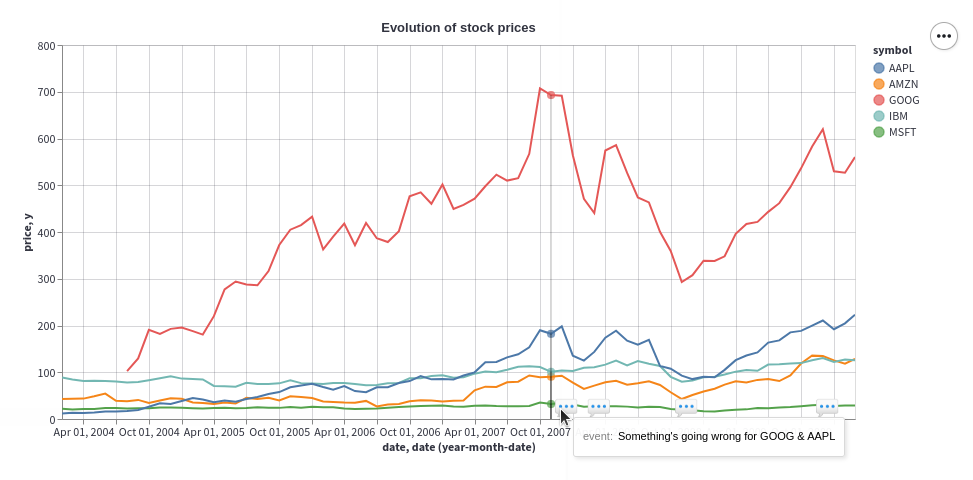
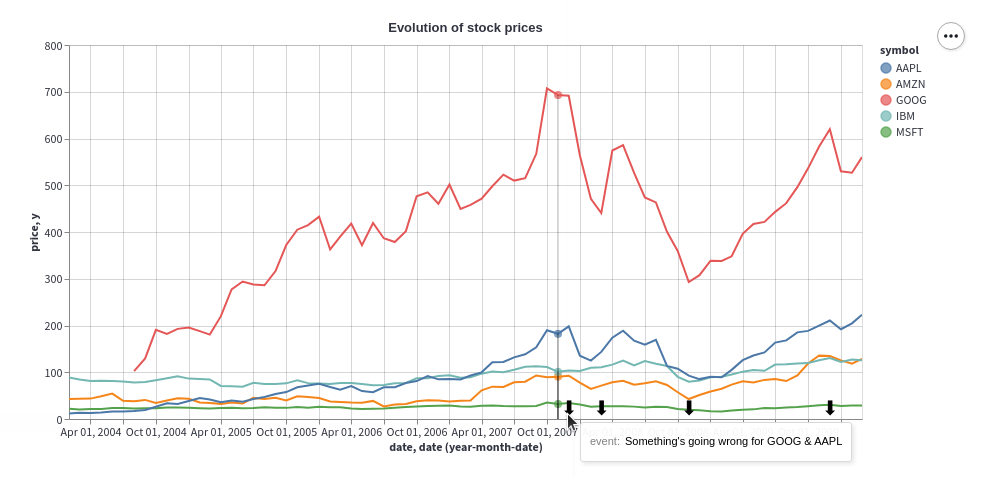
Incorporate Arnaud's feedback

diff --git a/content/library/api/charts/altair_chart.md b/content/library/api/charts/altair_chart.md
@@ -24,8 +24,14 @@ import pandas as pd
 import streamlit as st
 from vega_datasets import data
 
-source = data.stocks()
-source = source[source.date.gt("2004-01-01")]
+# We use @st.experimental_memo to keep the dataset in cache
+@st.experimental_memo
+def get_data():
+    source = data.stocks()
+    source = source[source.date.gt("2004-01-01")]
+    return source
+
+source = get_data()
 ```
 
 Next, we define a function `get_chart()` to create the interactive time-series chart of the stock prices with a multi-line tooltip. The x-axis represents the date, and the y-axis represents the stock price.
@@ -77,13 +83,13 @@ chart = get_chart(source)
 
 #### Step 2: Annotate the chart
 
-Now that we have our base chart, we can annotate it with text and an emoji. Let's overlay the 💬 emoji on top of the time-series chart at specifc points of interest. We want users to hover over the 💬 emoji to see the associated annotation text.
+Now that we have our first chart that shows the data, we can annotate it with text and an emoji. Let's overlay the ⬇ emoji on top of the time-series chart at specifc points of interest. We want users to hover over the ⬇ emoji to see the associated annotation text.
 
 For simplicity, let's annotate four specific dates and set the height of the annotations at constant value of `10`.
 
 <Tip>
 
-You can vary the horizontal and vertical postions of the annotations by replacing the hard-coded values with the output of Streamlit widgets! Click [here](/library/api-reference/charts/st.altair_chart#interactive-example) to jump to the live example below.
+You can vary the horizontal and vertical postions of the annotations by replacing the hard-coded values with the output of Streamlit widgets! Click [here](/library/api-reference/charts/st.altair_chart#interactive-example) to jump to a live example below, and develop an intuition for the ideal horizontal and vertical positions of the annotations by playing with Streamlit widgets.
 
 </Tip>
 
@@ -102,14 +108,14 @@ annotations_df.date = pd.to_datetime(annotations_df.date)
 annotations_df["y"] = 10
 ```
 
-Using this dataframe, we create a scatter plot with the x-axis representing the date, and the y-axis representing the height of the annotation. The data point at the specific date and height is represented by the 💬 emoji, using Altair's `mark_text()` [mark](https://altair-viz.github.io/user_guide/marks.html).
+Using this dataframe, we create a scatter plot with the x-axis representing the date, and the y-axis representing the height of the annotation. The data point at the specific date and height is represented by the ⬇ emoji, using Altair's `mark_text()` [mark](https://altair-viz.github.io/user_guide/marks.html).
 
-The annotation text is displayed as a tooltip when users hover over the 💬 emoji. This is achieved using Altair's `encode()` method to map the `event` column containing the annotation text to the visual attribute 💬 of the plot.
+The annotation text is displayed as a tooltip when users hover over the ⬇ emoji. This is achieved using Altair's `encode()` method to map the `event` column containing the annotation text to the visual attribute ⬇ of the plot.
 
 ```python
 annotation_layer = (
     alt.Chart(annotations_df)
-    .mark_text(size=20, text="💬", dx=-8, dy=-10, align="left")
+    .mark_text(size=20, text="⬇", dx=-8, dy=-10, align="left")
     .encode(
         x="date:T",
         y=alt.Y("y:Q"),
